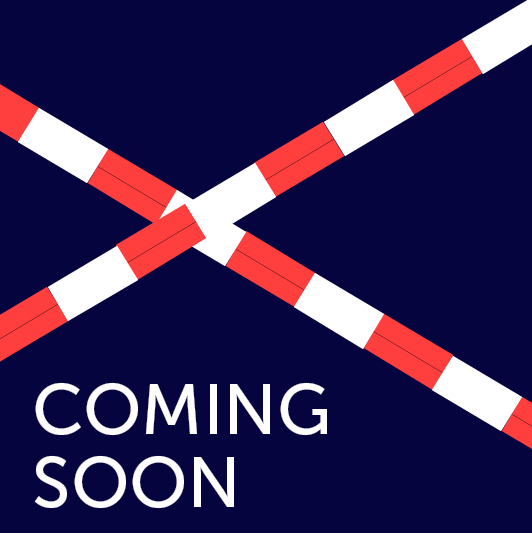
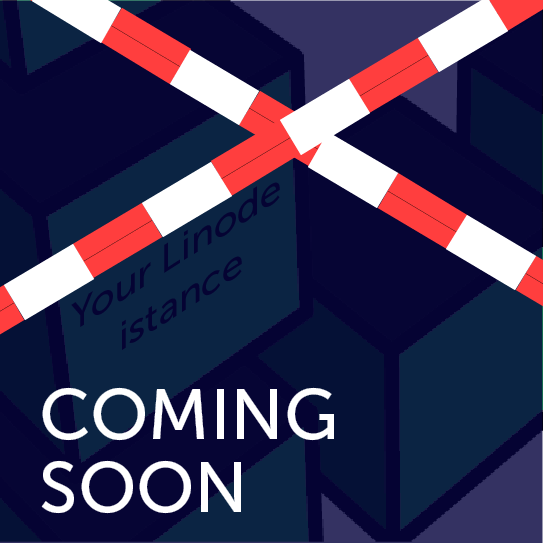
Added discord link, fixed comingsoon card, reorganized partners page

diff --git a/src/containers/PartnersContainers/SponsorSection/index.tsx b/src/containers/PartnersContainers/SponsorSection/index.tsx
@@ -1,0 +1,114 @@
+import { CardActionArea, Grid, Hidden, Paper, Stack, Typography } from '@mui/material'
+import { makeStyles } from '@mui/styles'
+
+import Carousel from 'components/Carousel'
+import BunnyLogo from 'containers/HomeContainers/TrustSection/assets/bunnycdn.svg'
+import LinodeLogo from 'containers/HomeContainers/TrustSection/assets/linode.svg'
+
+const useStyles = makeStyles(theme => ({
+  actionArea: {
+    display: 'flex',
+    borderRadius: 24,
+    marginTop: theme.spacing(2),
+    height: '100%'
+  },
+  sponsorPaper: {
+    color: '#FFFFFF',
+    height: '100%',
+    padding: theme.spacing(4)
+  },
+  sponsorImg: {
+    width: '100%',
+    backgroundSize: 'cover',
+    display: 'block',
+    margin: 'auto'
+  }
+}))
+
+const SponsorSection = () => {
+  const classes = useStyles()
+
+  return (
+    <Grid container item xs={12} md={9}>
+      <Hidden smDown>
+        <Grid container item xs={12} alignItems="center" justifyContent="center" wrap="nowrap">
+          <Stack direction="row" spacing={2}>
+            <Grid item xs={12} md={6} justifyContent="center">
+              <CardActionArea
+                className={classes.actionArea}
+                href="https://bunny.net?ref=ppalfbefw3"
+              >
+                <Paper className={classes.sponsorPaper} elevation={0}>
+                  <Stack direction="column" spacing={2}>
+                    <Typography variant="h4" gutterBottom>
+                      BunnyCDN
+                    </Typography>
+                    BunnyCDN is a private and fast content distribution network used to boost the
+                    download of the Parrot system. Go faster than the fastest with the
+                    next-generation CDN, edge storage, and optimization service
+                    <BunnyLogo className={classes.sponsorImg} />
+                  </Stack>
+                </Paper>
+              </CardActionArea>
+            </Grid>
+            <Grid item xs={12} md={6} justifyContent="center">
+              <CardActionArea
+                className={classes.actionArea}
+                href="https://www.linode.com/?r=2b6d749d3cb301e41bdbec5fc40e50c4316f7c66"
+              >
+                <Paper className={classes.sponsorPaper} elevation={0}>
+                  <Stack direction="column" spacing={2}>
+                    <Typography variant="h4" gutterBottom>
+                      Linode
+                    </Typography>
+                    Cloud Computing Developers Trust. Accelerate innovation with simple, affordable,
+                    and accessible Linux cloud solutions and services. See why developers around the
+                    world trust Linode. Try free today.
+                    <LinodeLogo className={classes.sponsorImg} />
+                  </Stack>
+                </Paper>
+              </CardActionArea>
+            </Grid>
+          </Stack>
+        </Grid>
+      </Hidden>
+      <Hidden mdUp>
+        <Grid item xs={12}>
+          <Carousel swipe animation="slide" navButtonsAlwaysInvisible>
+            <CardActionArea className={classes.actionArea} href="https://bunny.net?ref=ppalfbefw3">
+              <Paper className={classes.sponsorPaper} elevation={0}>
+                <Stack direction="column" spacing={2}>
+                  <Typography variant="h4" gutterBottom>
+                    BunnyCDN
+                  </Typography>
+                  BunnyCDN is a private and fast content distribution network used to boost the
+                  download of the Parrot system. Go faster than the fastest with the next-generation
+                  CDN, edge storage, and optimization service.
+                  <BunnyLogo className={classes.sponsorImg} />
+                </Stack>
+              </Paper>
+            </CardActionArea>
+            <CardActionArea
+              className={classes.actionArea}
+              href="https://www.linode.com/?r=2b6d749d3cb301e41bdbec5fc40e50c4316f7c66"
+            >
+              <Paper className={classes.sponsorPaper} elevation={0}>
+                <Stack direction="column" spacing={2}>
+                  <Typography variant="h4" gutterBottom>
+                    Linode
+                  </Typography>
+                  Cloud Computing Developers Trust. Accelerate innovation with simple, affordable,
+                  and accessible Linux cloud solutions and services. See why developers around the
+                  world trust Linode. Try free today.
+                  <LinodeLogo className={classes.sponsorImg} />
+                </Stack>
+              </Paper>
+            </CardActionArea>
+          </Carousel>
+        </Grid>
+      </Hidden>
+    </Grid>
+  )
+}
+
+export default SponsorSection

diff --git a/src/containers/PartnersContainers/CollaborationsSection/collaborations.ts b/src/containers/PartnersContainers/CollaborationsSection/collaborations.ts
@@ -26,19 +26,5 @@ export default [
       'is an IT company dedicated to cyber security services, protecting companies from vulnerabilities and system penetration, providing security information training to their employees. Company employees can take advantage of the remote support we give anytime anyday to any platform.',
     url: 'https://www.prodefence.org',
     image: '../assets/partners/collaborations/prodefence.png'
-  },
-  {
-    name: 'Linode',
-    description:
-      'Cloud Computing Developers Trust. Accelerate innovation with simple, affordable, and accessible Linux cloud solutions and services. See why developers around the world trust Linode. Try free today.',
-    url: 'https://www.linode.com/?r=2b6d749d3cb301e41bdbec5fc40e50c4316f7c66',
-    image: '../assets/partners/collaborations/linode.png'
-  },
-  {
-    name: 'BunnyCDN',
-    description:
-      'BunnyCDN is a private and fast content distribution network used to boost the download of the Parrot system.',
-    url: 'https://bunny.net?ref=ppalfbefw3',
-    image: '../assets/partners/collaborations/bunnycdn.png'
   }
 ]

diff --git a/src/containers/PartnersContainers/CollaborationsSection/index.tsx b/src/containers/PartnersContainers/CollaborationsSection/index.tsx
@@ -1,15 +1,18 @@
-import { CardActionArea, Grid, Paper, Typography } from '@mui/material'
+import { CardActionArea, Grid, Hidden, Paper, Stack, Typography } from '@mui/material'
 import { makeStyles } from '@mui/styles'
 
 import collaborations from './collaborations'
 
 import Carousel from 'components/Carousel'
+import BunnyLogo from 'containers/HomeContainers/TrustSection/assets/bunnycdn.svg'
+import LinodeLogo from 'containers/HomeContainers/TrustSection/assets/linode.svg'
 
 const useStyles = makeStyles(theme => ({
   actionArea: {
     display: 'flex',
     borderRadius: 24,
-    marginTop: theme.spacing(2)
+    marginTop: theme.spacing(2),
+    height: '100%'
   },
   collaborations: {
     paddingTop: theme.spacing(10)
@@ -24,6 +27,17 @@ const useStyles = makeStyles(theme => ({
     width: '100%',
     backgroundSize: 'cover',
     backgroundPosition: 'center'
+  },
+  sponsorPaper: {
+    color: '#FFFFFF',
+    height: '100%',
+    padding: theme.spacing(4)
+  },
+  sponsorImg: {
+    width: '100%',
+    backgroundSize: 'cover',
+    display: 'block',
+    margin: 'auto'
   }
 }))
 

diff --git a/src/containers/Footer/index.tsx b/src/containers/Footer/index.tsx
@@ -264,11 +264,13 @@ const Footer = () => {
                 >
                   Instagram
                 </Link>
-                {/*
-                <Link className={classes.link} color="textSecondary" href="/download/home">
+                <Link
+                  className={classes.link}
+                  color="textSecondary"
+                  href="https://discord.gg/j7QTaCzAsm"
+                >
                   Discord
                 </Link>
-                */}
                 <Link
                   className={classes.link}
                   color="textSecondary"
@@ -287,9 +289,6 @@ const Footer = () => {
                   href="https://www.linkedin.com/company/parrotsec/about/"
                 >
                   LinkedIn
-                </Link>
-                <Link className={classes.link} color="textSecondary" href="#">
-                  Discord
                 </Link>
               </Grid>
             </Grid>

diff --git a/pages/partners.tsx b/pages/partners.tsx
@@ -6,6 +6,7 @@ import ContributeSection from 'containers/HomeContainers/ContributeSection'
 import CollaborationSection from 'containers/PartnersContainers/CollaborationsSection'
 import HTBSection from 'containers/PartnersContainers/HTBSection'
 import MirrorsSection from 'containers/PartnersContainers/MirrorsSection'
+import SponsorSection from 'containers/PartnersContainers/SponsorSection'
 
 const useStyles = makeStyles(theme => ({
   root: {
@@ -48,6 +49,7 @@ const Partners: NextPage = () => {
         </Typography>
       </Grid>
       <HTBSection />
+      <SponsorSection />
       <CollaborationSection />
       <MirrorsSection />
       <ContributeSection className={classes.developBlock} />

diff --git a/src/containers/CommunityContainers/SocialsSection/index.tsx b/src/containers/CommunityContainers/SocialsSection/index.tsx
@@ -99,7 +99,7 @@ const SocialsSection = (props: GridProps) => {
             <IconButton href="https://www.facebook.com/ParrotSec/">
               <Facebook className={classes.icon} />
             </IconButton>
-            <IconButton href="#">
+            <IconButton href="https://discord.gg/j7QTaCzAsm">
               <Discord className={classes.icon} />
             </IconButton>
             <IconButton href="https://www.linkedin.com/company/parrotsec/about/">
